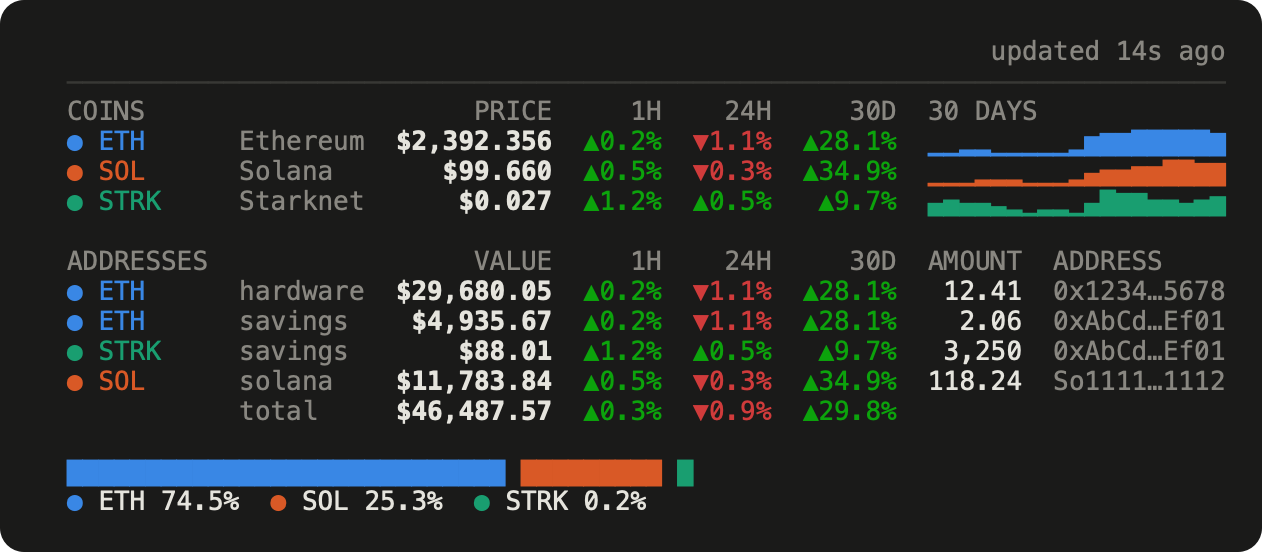
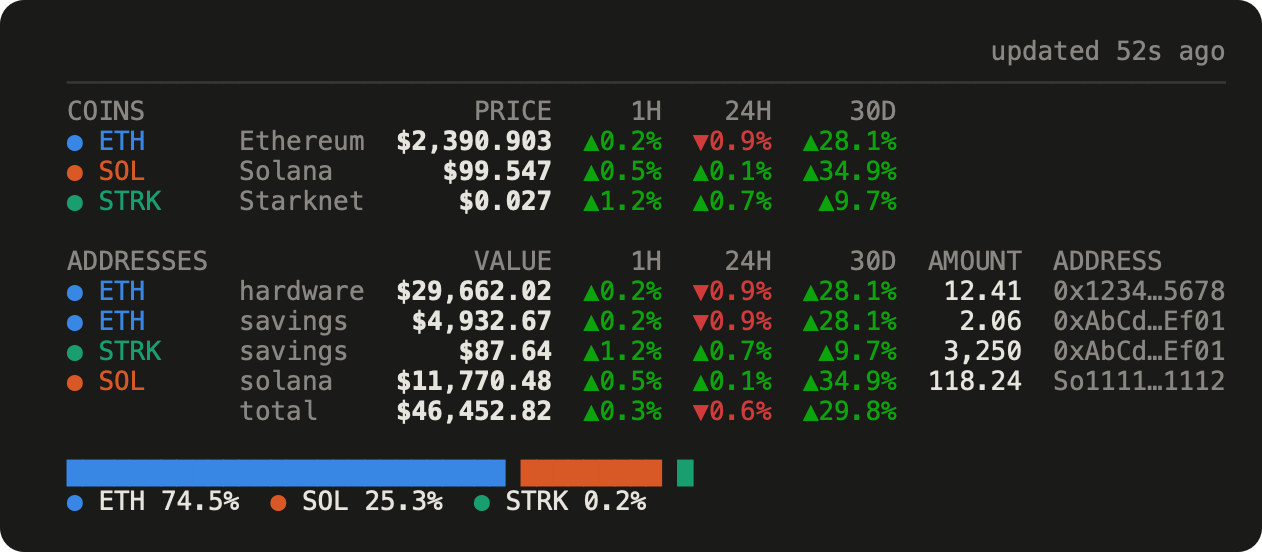
Show four charts and a single one, and cut the page again
The screenshots are re-rendered: no sparklines, since that is the default now, a
two-by-two grid of four coins, and `coins eth` alone, which had no picture at all.

Gone from the page: the environment-variable table, which documented escape
hatches nobody reaching this page is looking for; the caching rules, which are the
tool's business and not the reader's; and the line about coins of different value
not sharing an axis, which the two charts above it already say. The prices section
keeps the two facts that change what someone does — the rate limit and what a
month column costs — and drops the rest.

The icon sits above the title rather than floating beside it, where it crowded the
first screenshot.

diff --git a/README.md b/README.md
@@ -1,24 +1,26 @@
-# coins
+<img src="docs/icon.png" width="64" alt="">
 
-<img src="docs/icon.png" width="76" align="right" alt="">
+# coins
 
 [![CI](https://github.com/msimkin/coins/actions/workflows/ci.yml/badge.svg)](https://github.com/msimkin/coins/actions/workflows/ci.yml)
 
 Cryptocurrency prices, charts and holdings in your terminal.
 
-![The coins table: three coins with price, change columns and a sparkline each](docs/market.png)
+![Three coins with their price and the change over 1h, 24h and 30 days](docs/market.png)
 
-One row per coin: the price, a change column for each period you ask for, and a
-sparkline over the period in `range`. Prices come from
-[CoinGecko](https://docs.coingecko.com), quoted directly in your own currency.
+One row per coin: the price, then a change column for every period you name. Prices
+come from [CoinGecko](https://docs.coingecko.com), quoted directly in your own
+currency.
 
-`coins plot` draws the same data full size, one chart per coin:
+`coins plot` draws the charts, as many to a row as the terminal fits:
 
-![Two full-size charts side by side, ETH and SOL over a month](docs/plot.png)
+![Four charts in a two-by-two grid: BTC, ETH, SOL and STRK over a month](docs/plot.png)
 
-Every coin gets its own axis, in money: coins worth $2,400 and $100 cannot share one
-usefully. Curves are drawn with braille dots, 2×4 per character cell, so they stay
-smooth at any terminal width.
+`coins eth` draws one of them alone:
+
+![One full-width chart of ETH over a month](docs/eth.png)
+
+Curves are braille dots, 2×4 to a character cell, so they stay smooth at any width.
 
 ## Install
 
@@ -36,9 +38,8 @@ The first run writes `~/.config/coins/config.toml` with every option commented.
 
 ```sh
 coins                 # prices
-coins plot            # the full-size charts
-coins plot btc        # one coin, full size
-coins btc             # short for the above
+coins plot            # the charts
+coins eth             # one coin, full width
 coins add sol         # track a coin, by ticker, name or CoinGecko id
 coins add 0xd8dA…     # track an address; its balances become holdings
 coins rm sol          # stop tracking a coin or an address
@@ -47,7 +48,7 @@ coins config --edit   # open the config in $EDITOR
 ```
 
 Any unambiguous prefix works: `coins b` is `coins balance`, `coins p` is `coins
-plot`. `-c eur` and `-r 1m` override the configured currency and period for one run.
+plot`. `-c eur` and `-r 1m` change the currency and the period for one run.
 
 `add` takes only an exact match on id, ticker or name, so a typo cannot quietly
 become a coin you did not mean:
@@ -59,8 +60,8 @@ coins: no coin is called "bitcon" — did you mean one of these?
 (add by id, e.g. `coins add bitcone`)
 ```
 
-The 250 largest coins are built in, so `coins add btc` resolves without a request.
-Tab completion draws on the same list.
+The 250 largest coins are built in, so `coins add btc` needs no request. Tab
+completion offers the same list.
 
 ## Configure
 
@@ -69,17 +70,17 @@ Everything lives in `~/.config/coins/config.toml`:
 ```toml
 coins       = ["bitcoin", "ethereum"]  # tracked coins; order fixes each coin's colour
 currency    = "usd"                    # any CoinGecko vs_currency: usd, eur, gbp, btc, …
-range       = "1w"                     # 1d | 1w | 1m | 3m | 6m | 1y | all
-columns     = ["1h", "24h", "7d"]      # change columns: 1h 24h 7d 14d 30d 3m 6m 200d 1y
+range       = "1w"                     # how much history a chart covers
+columns     = ["1h", "24h", "7d"]      # 1h 24h 7d 14d 30d 3m 6m 200d 1y
 
-inline_plot = true                     # the sparkline beside each coin
+inline_plot = false                    # add a sparkline to the right of every row
 show_addresses = false                 # let plain `coins` show holdings too
-height      = 14                       # `coins plot` height, in terminal rows
-thousands   = " "                      # digit grouping in prices: " " | "," | "." | ""
-max_decimals = 3                       # ceiling on price decimals; a column shares
-                                       # whichever count its neediest row needs
-theme       = "dark"                   # dark | light — match your terminal background
-api_key     = ""                       # a free CoinGecko demo key raises the rate limit
+balance     = "all"                    # `coins balance`: all | addresses
+height      = 14                       # chart height, in terminal rows
+thousands   = " "                      # digit grouping: " " | "," | "." | ""
+max_decimals = 3                       # ceiling on price decimals
+theme       = "dark"                   # dark | light
+api_key     = ""                       # a CoinGecko demo key raises the rate limit
 
 [holdings]                             # coins held somewhere with no address
 bitcoin = 0.25
@@ -89,63 +90,51 @@ address = "0x…"
 label   = "main"
 ```
 
-`coins add` and `coins rm` edit the file in place, leaving your comments and layout
-alone. `coins config` never parses it, so a file the tool refuses to read still has
-a way in.
+Every price in a column shares one decimal count — as many as its neediest row
+needs, up to `max_decimals` — so the decimal marks line up on their own.
+
+`coins add` and `coins rm` edit the file in place, leaving your comments alone.
+`coins config` never parses it, so a file the tool refuses to read still has a way
+in.
 
 ## Holdings
 
-Two sources, which add up:
+Two sources, which add up: `[holdings]` in the config, for coins held somewhere
+without an address, and `coins add <address>` for balances read from the chain. The
+chain follows from the address — `0x` and 40 hex digits is Ethereum, 43–44 base58
+characters is Solana — and one address holds the chain's own coin plus any token you
+track, so the group has a row per holding rather than per address.
 
-- `[holdings]` in the config, for coins held somewhere without an address.
-- `coins add <address>`, for balances read from the chain. The chain follows from the
-  address: `0x` and 40 hex digits is Ethereum, read with `eth_getBalance` and
-  `balanceOf` per tracked ERC-20; 43–44 base58 characters is Solana, read with
-  `getBalance` and `getTokenAccountsByOwner` per tracked SPL mint.
-
-One address holds the chain's own coin plus any token you track, so the group has a
-row per holding rather than per address:
-
-![The balance view: coins, addresses with amounts, a total and an allocation bar](docs/balance.png)
+![The balance view: coins, then addresses with amounts, a total and an allocation bar](docs/balance.png)
 
 The addresses and amounts above are made up.
 
 **Plain `coins` shows prices only** — no addresses, no portfolio — so checking the
 market with someone beside you does not put your holdings on the screen. `coins
-balance` is the full picture; `show_addresses = true` makes it the default.
+balance` is the full picture. Two options move that line: `show_addresses = true`
+puts holdings in every view, and `balance = "addresses"` leaves the coin table out
+of `coins balance`, so the two commands divide the screen between them.
 
-Two things worth knowing:
+A token you hold but do not track stays invisible until you `coins add` it. Whichever
+RPC endpoint answers sees the address you asked about; the defaults are public nodes,
+and `rpc = "…"` on a wallet points at your own.
 
-- **Only coins you track are looked up.** A token you hold but do not track stays
-  invisible until you `coins add` it.
-- **Whichever RPC endpoint answers sees the address you asked about.** The defaults
-  are public nodes; `rpc = "…"` on a wallet points at your own.
+## Prices
 
-## Prices and caching
+The keyless CoinGecko API allows roughly 5–15 requests a minute; a free demo key in
+`api_key` raises it to 100. At `range = "1w"` a screen is one request, which carries
+every price, every change column and a week of history together. Other ranges need a
+chart per coin, as do the `3m` and `6m` columns — one chart serves both, since 180
+days of history contains the last 90.
 
-The keyless CoinGecko API allows roughly 5–15 requests a minute, and a free demo key
-in `api_key` raises that to 100.
+Charts are cached in `~/.cache/coins` for five minutes to a day, depending on how
+fast the period moves. The top line always states the age of what you are looking at,
+and says `offline` or `rate-limited` when it could not refresh.
 
-At `range = "1w"` a whole screen is **one** request: `/coins/markets` carries every
-price, the change columns and a 7-day sparkline together. Other ranges need one
-chart per coin, as do the `3m` and `6m` columns — one chart covers both, since 180
-days of history contains the last 90. Charts are cached for 5 minutes to a day,
-depending on how fast the period moves.
+## Maintenance
 
-Responses live in `~/.cache/coins`. Under a minute old, a run draws from cache and
-makes no request; older, it draws from cache at once and refreshes in the background;
-older still, it fetches first. The top line always states the age of what you are
-looking at, and says `offline` or `rate-limited` when it could not refresh.
-
-## Environment
-
-| Variable | Effect |
-|---|---|
-| `NO_COLOR` | disable colour (truecolor, 256-colour and 16-colour terminals are detected otherwise) |
-| `COINS_CONFIG` | use a different config file |
-| `COINS_CACHE` | use a different cache directory |
-| `COINS_WIDTH` | assume this terminal width, for piping to a file or pager |
-| `COINS_API_BASE` | point at a CoinGecko mirror or proxy |
+`src/coins.rs` holds the built-in coin list. `coins __popular` prints a fresh one from
+CoinGecko, ready to replace everything below that file's header.
 
 ## Licence
 
